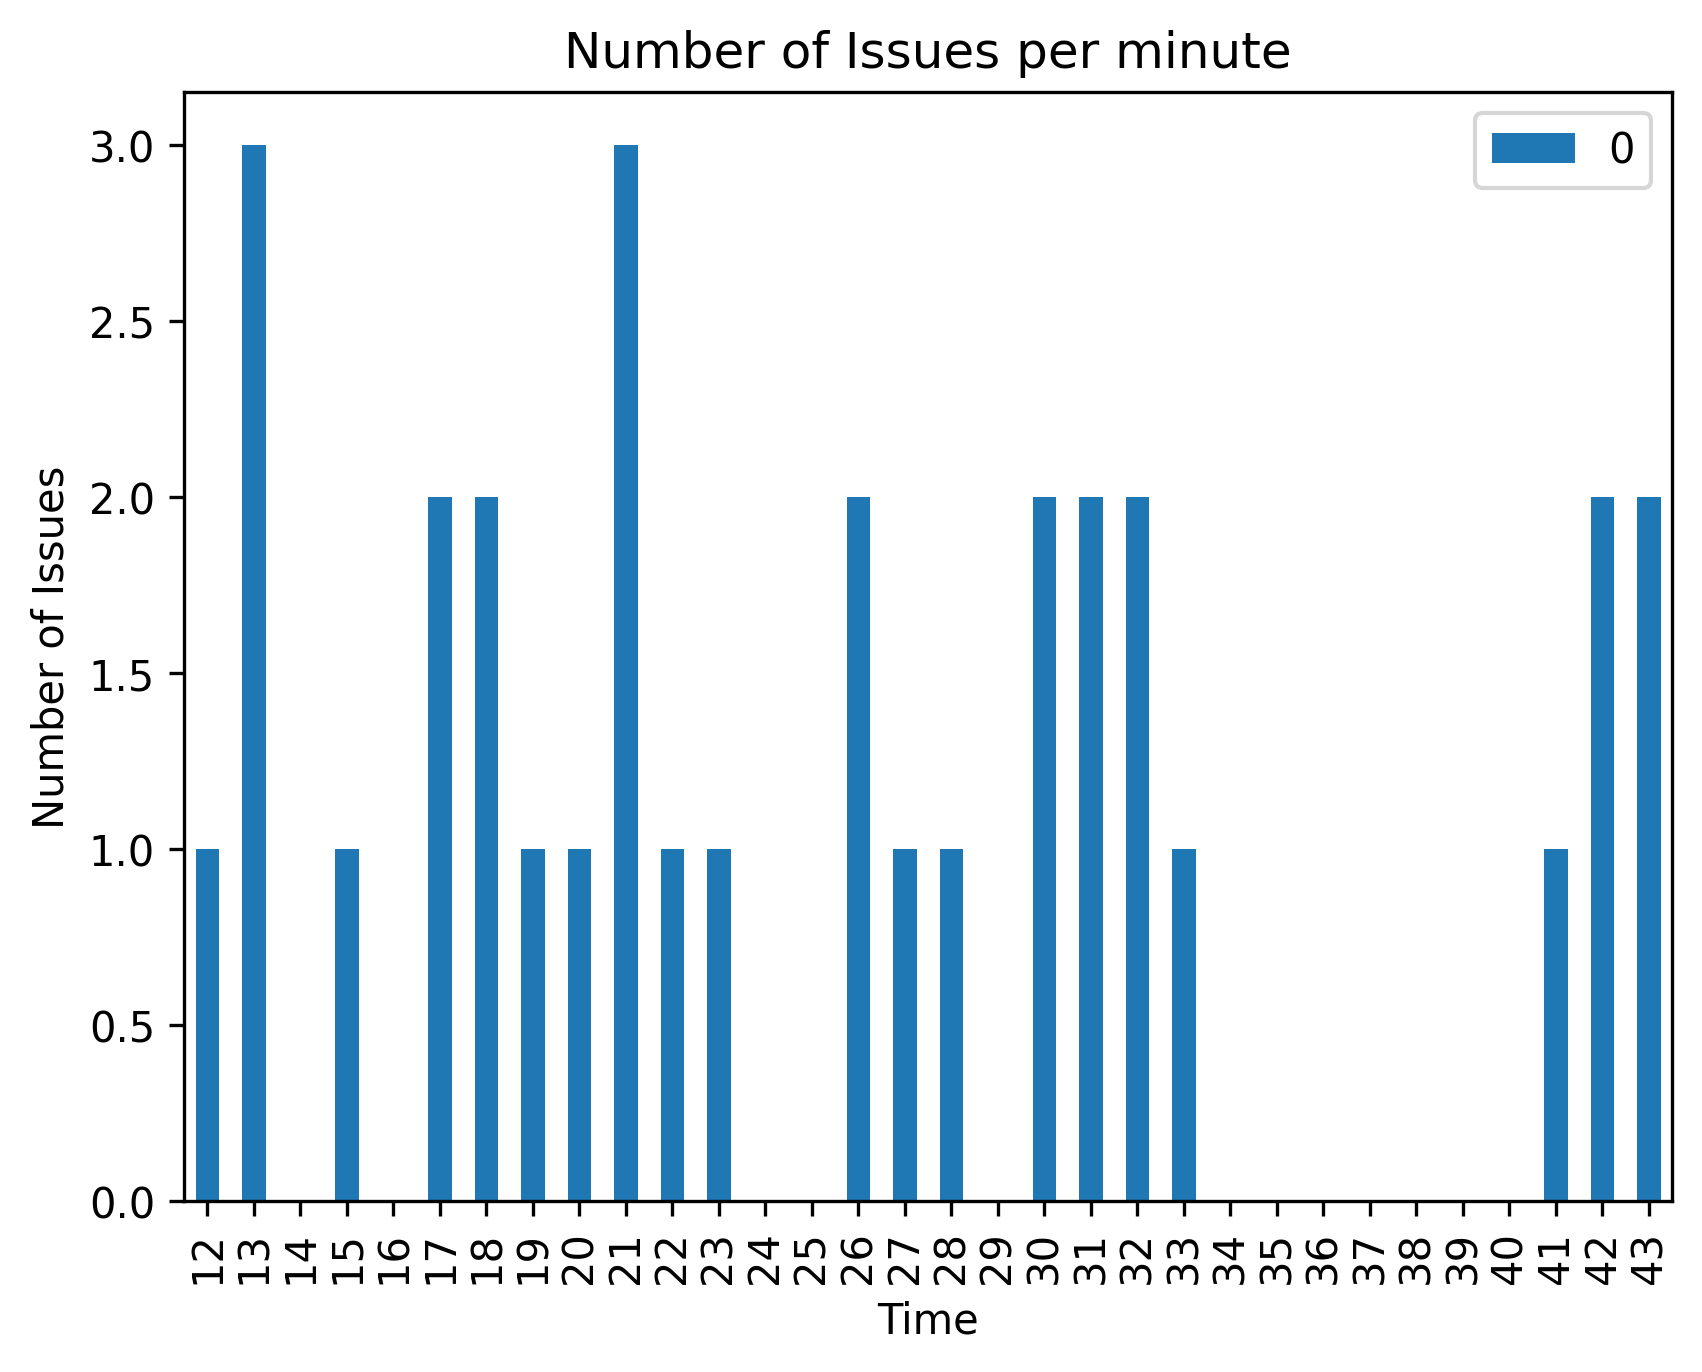
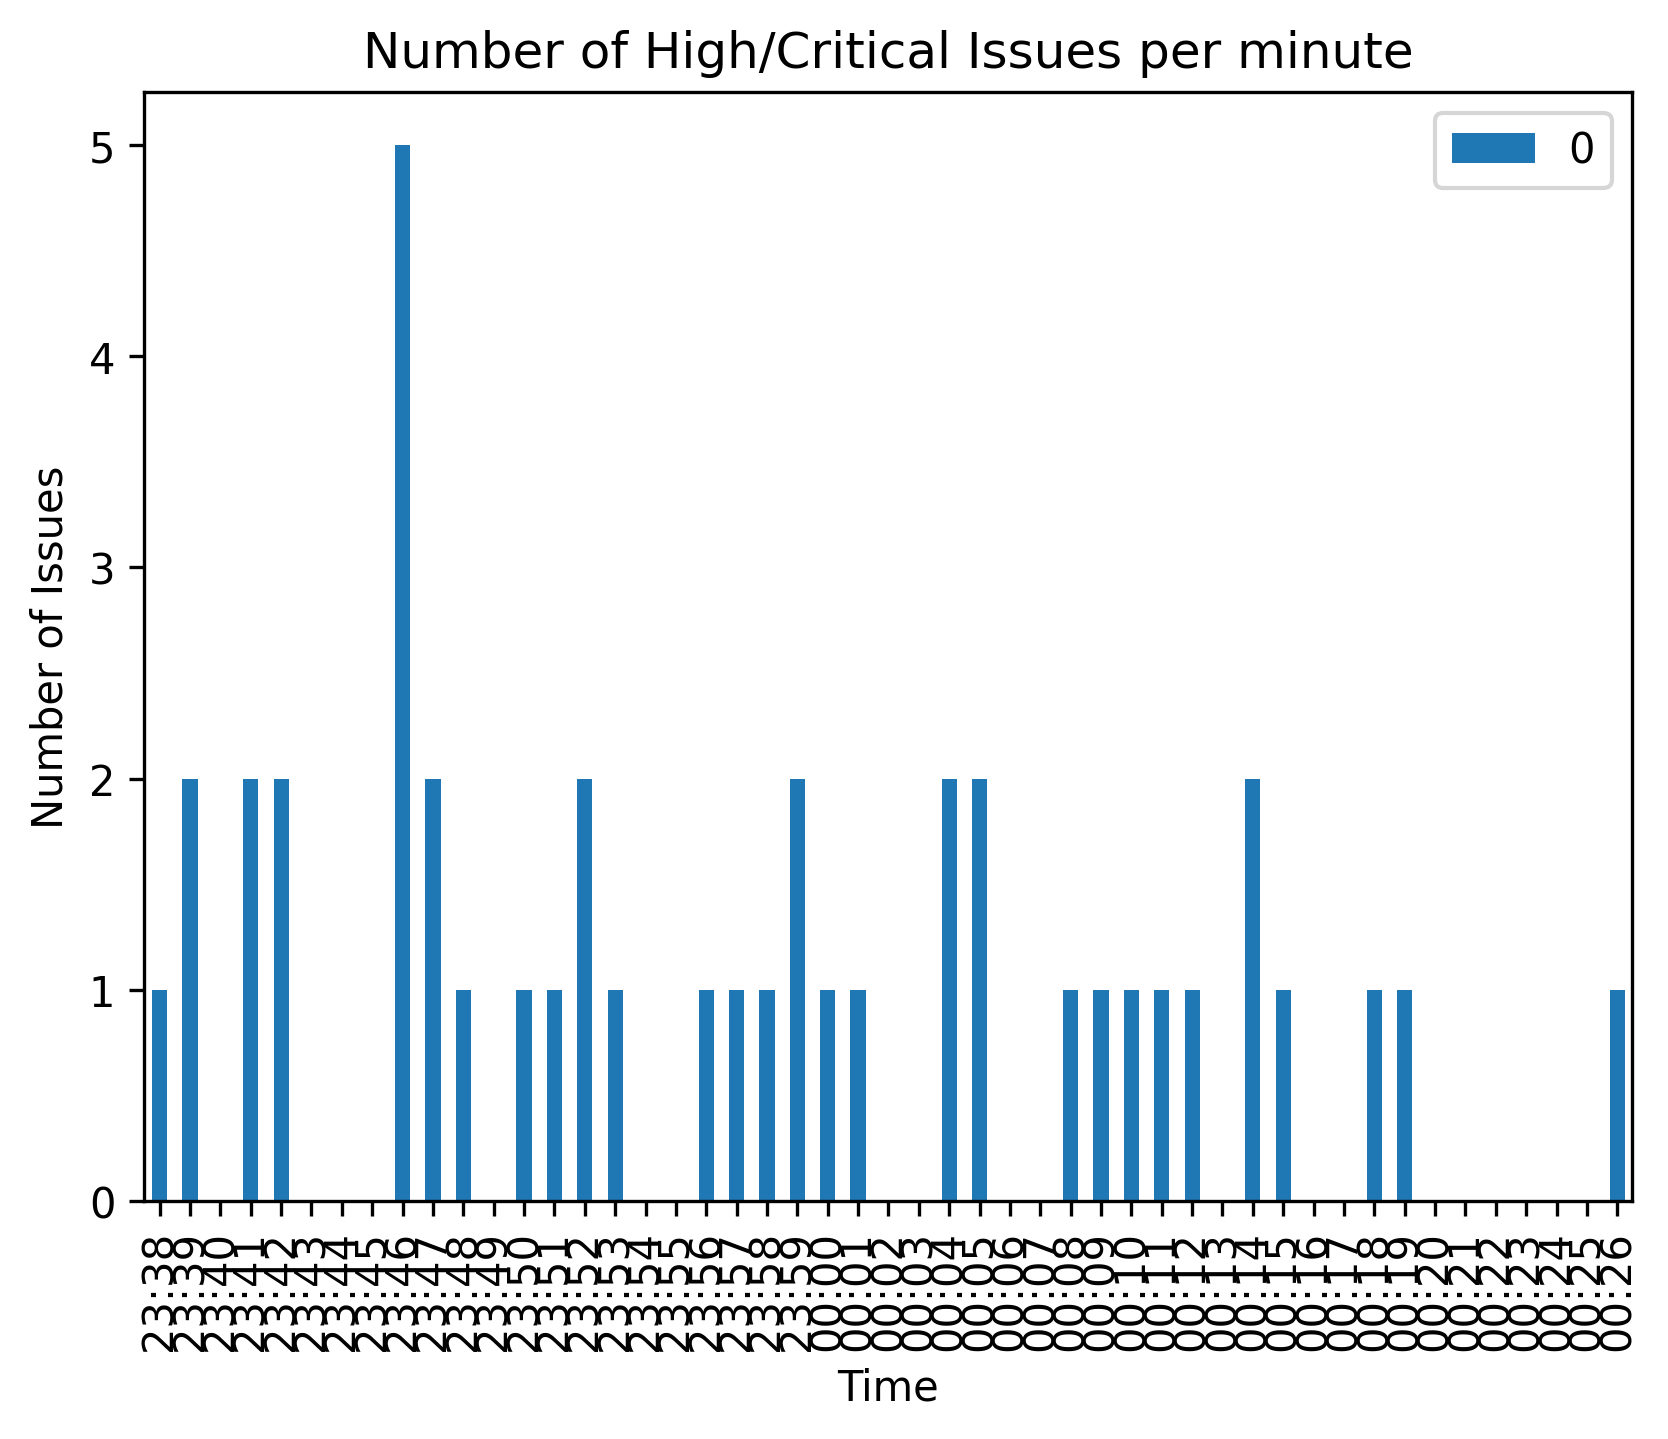
validate with full one hour run

Changed region(s): [[0.0, 0.0, 0.9976, 0.9796]]

diff --git a/silkhomeassignment/plottickets.py b/silkhomeassignment/plottickets.py
@@ -27,7 +27,7 @@ def plot_issues_per_minutes(timestamps: List[str], output_file: str) -> None:
     df_resampled["created"] = df_resampled["created"].dt.strftime("%H:%M")
     df_resampled = df_resampled.set_index("created")
     df_resampled.plot(kind="bar")
-    plt.title("Number of Issues per minute")
+    plt.title("Number of High/Critical Issues per minute")
     plt.xlabel("Time")
     plt.ylabel("Number of Issues")
     plt.savefig(output_file, dpi=300, bbox_inches="tight")
